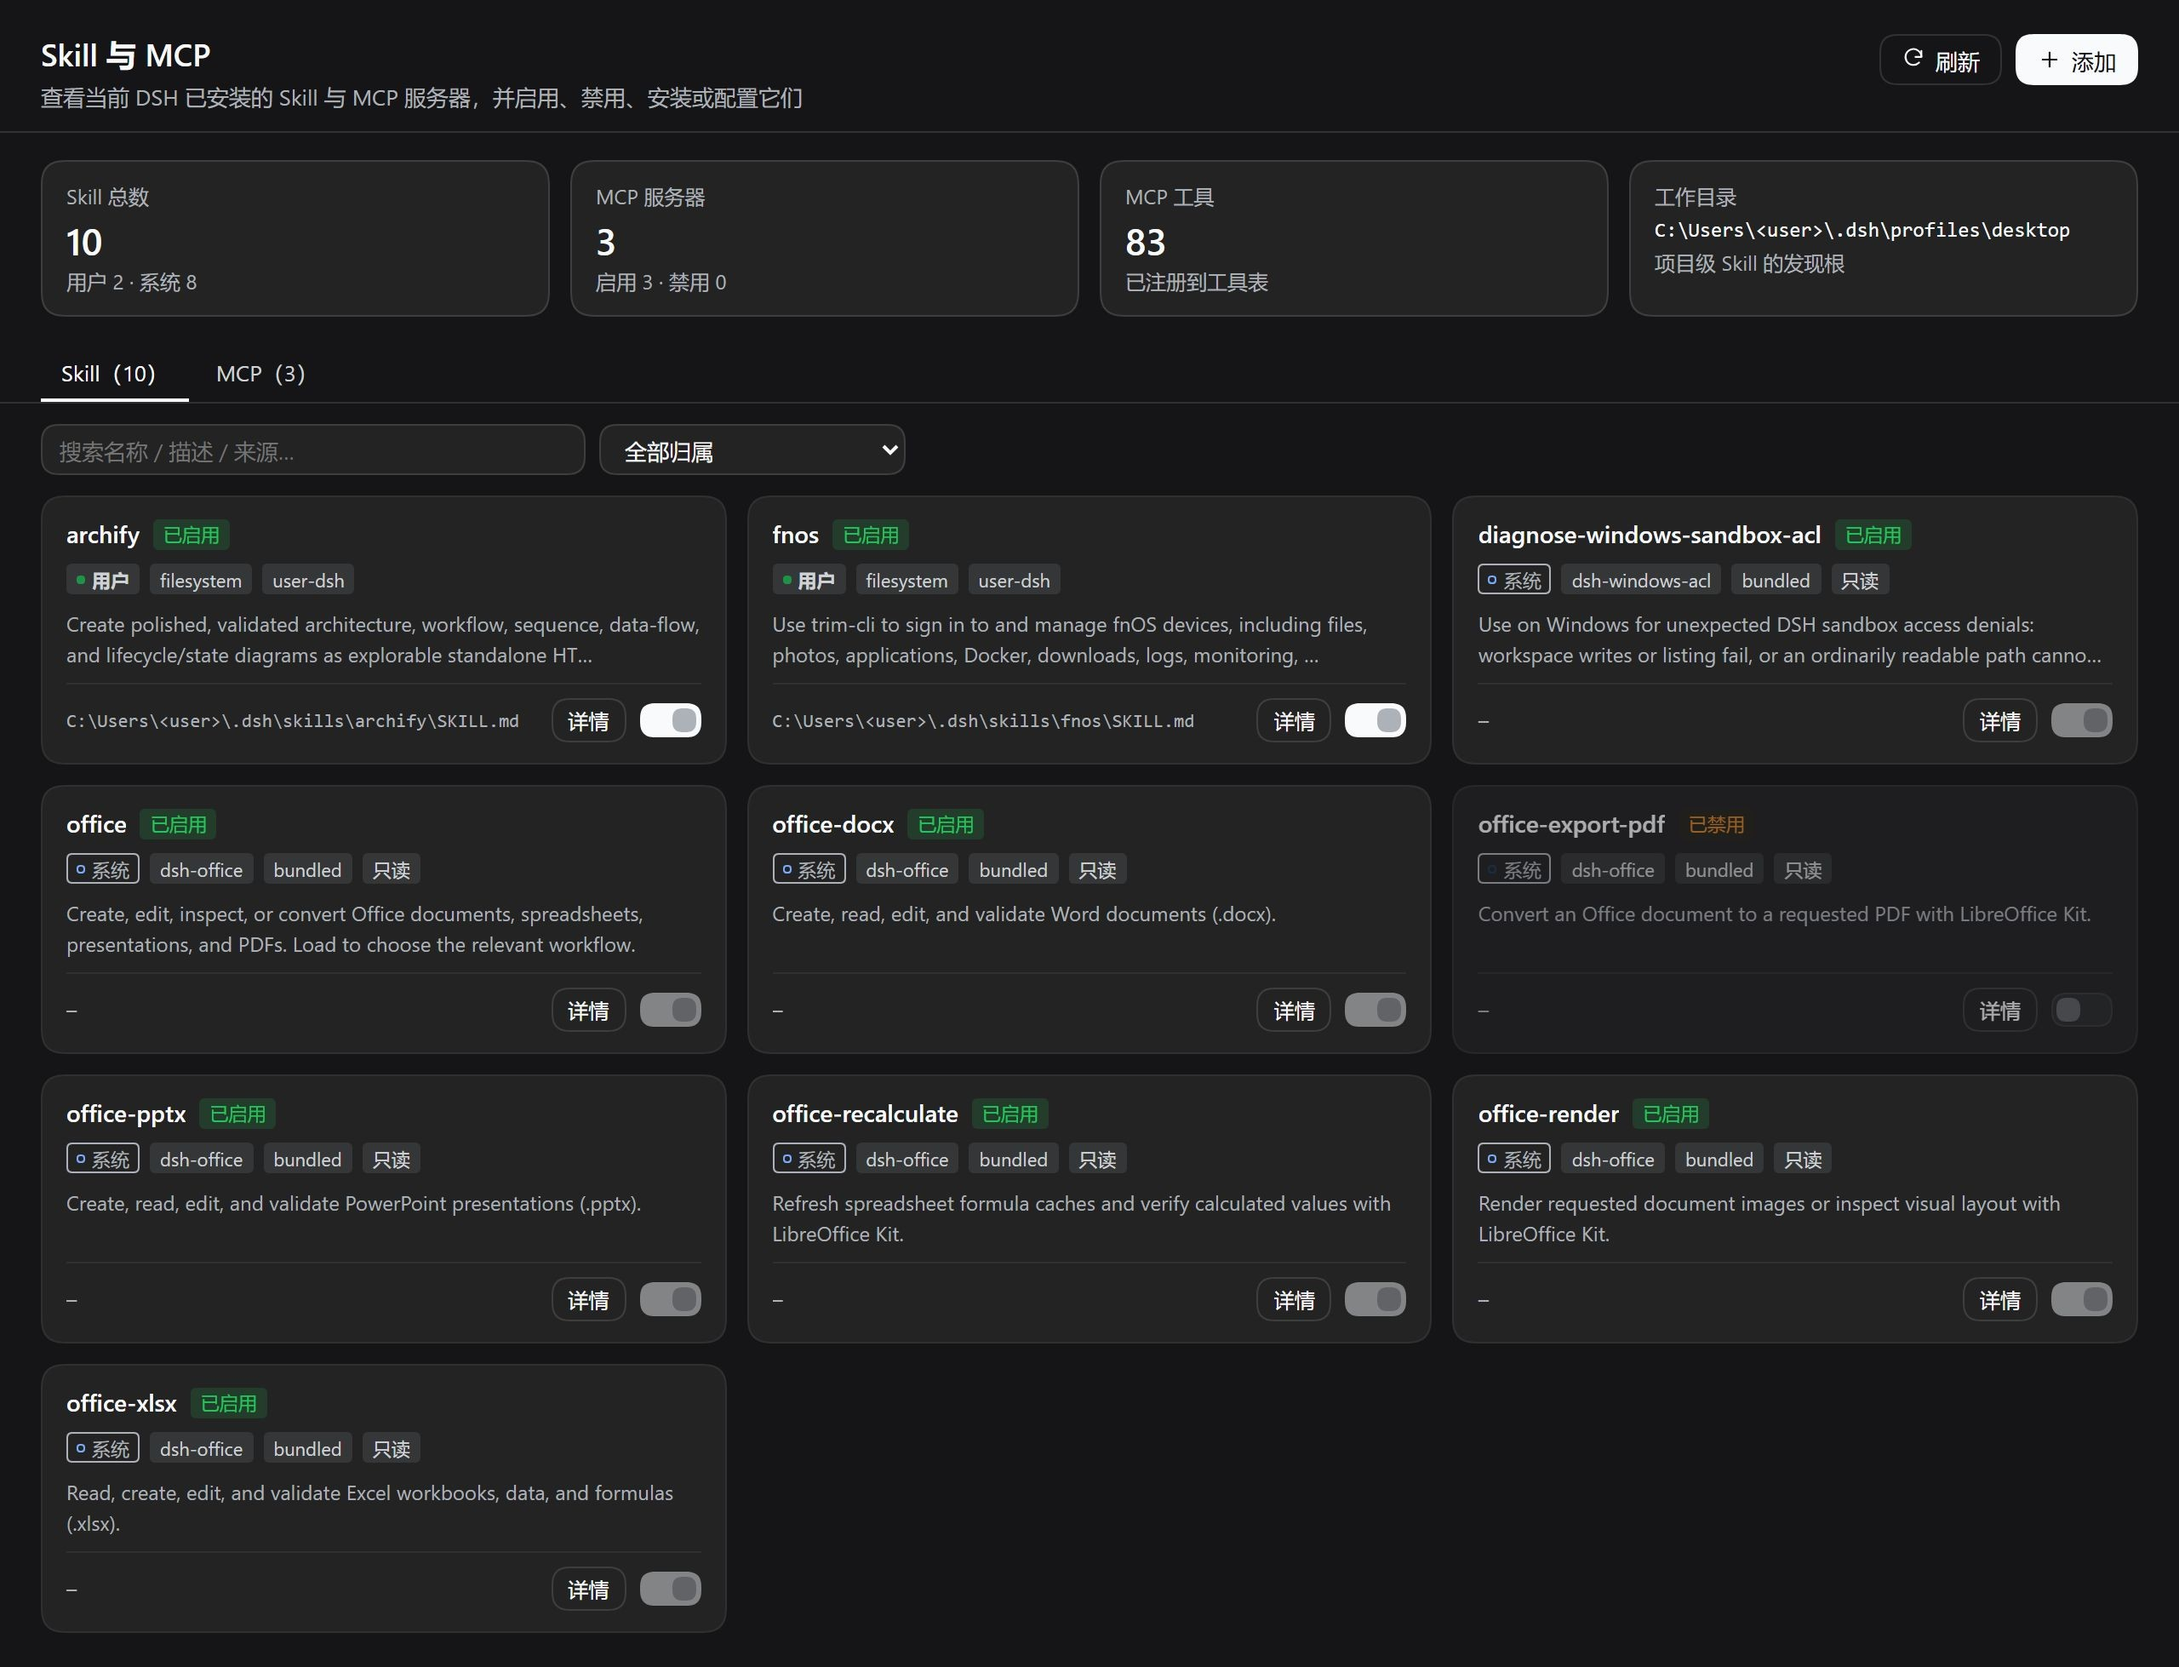
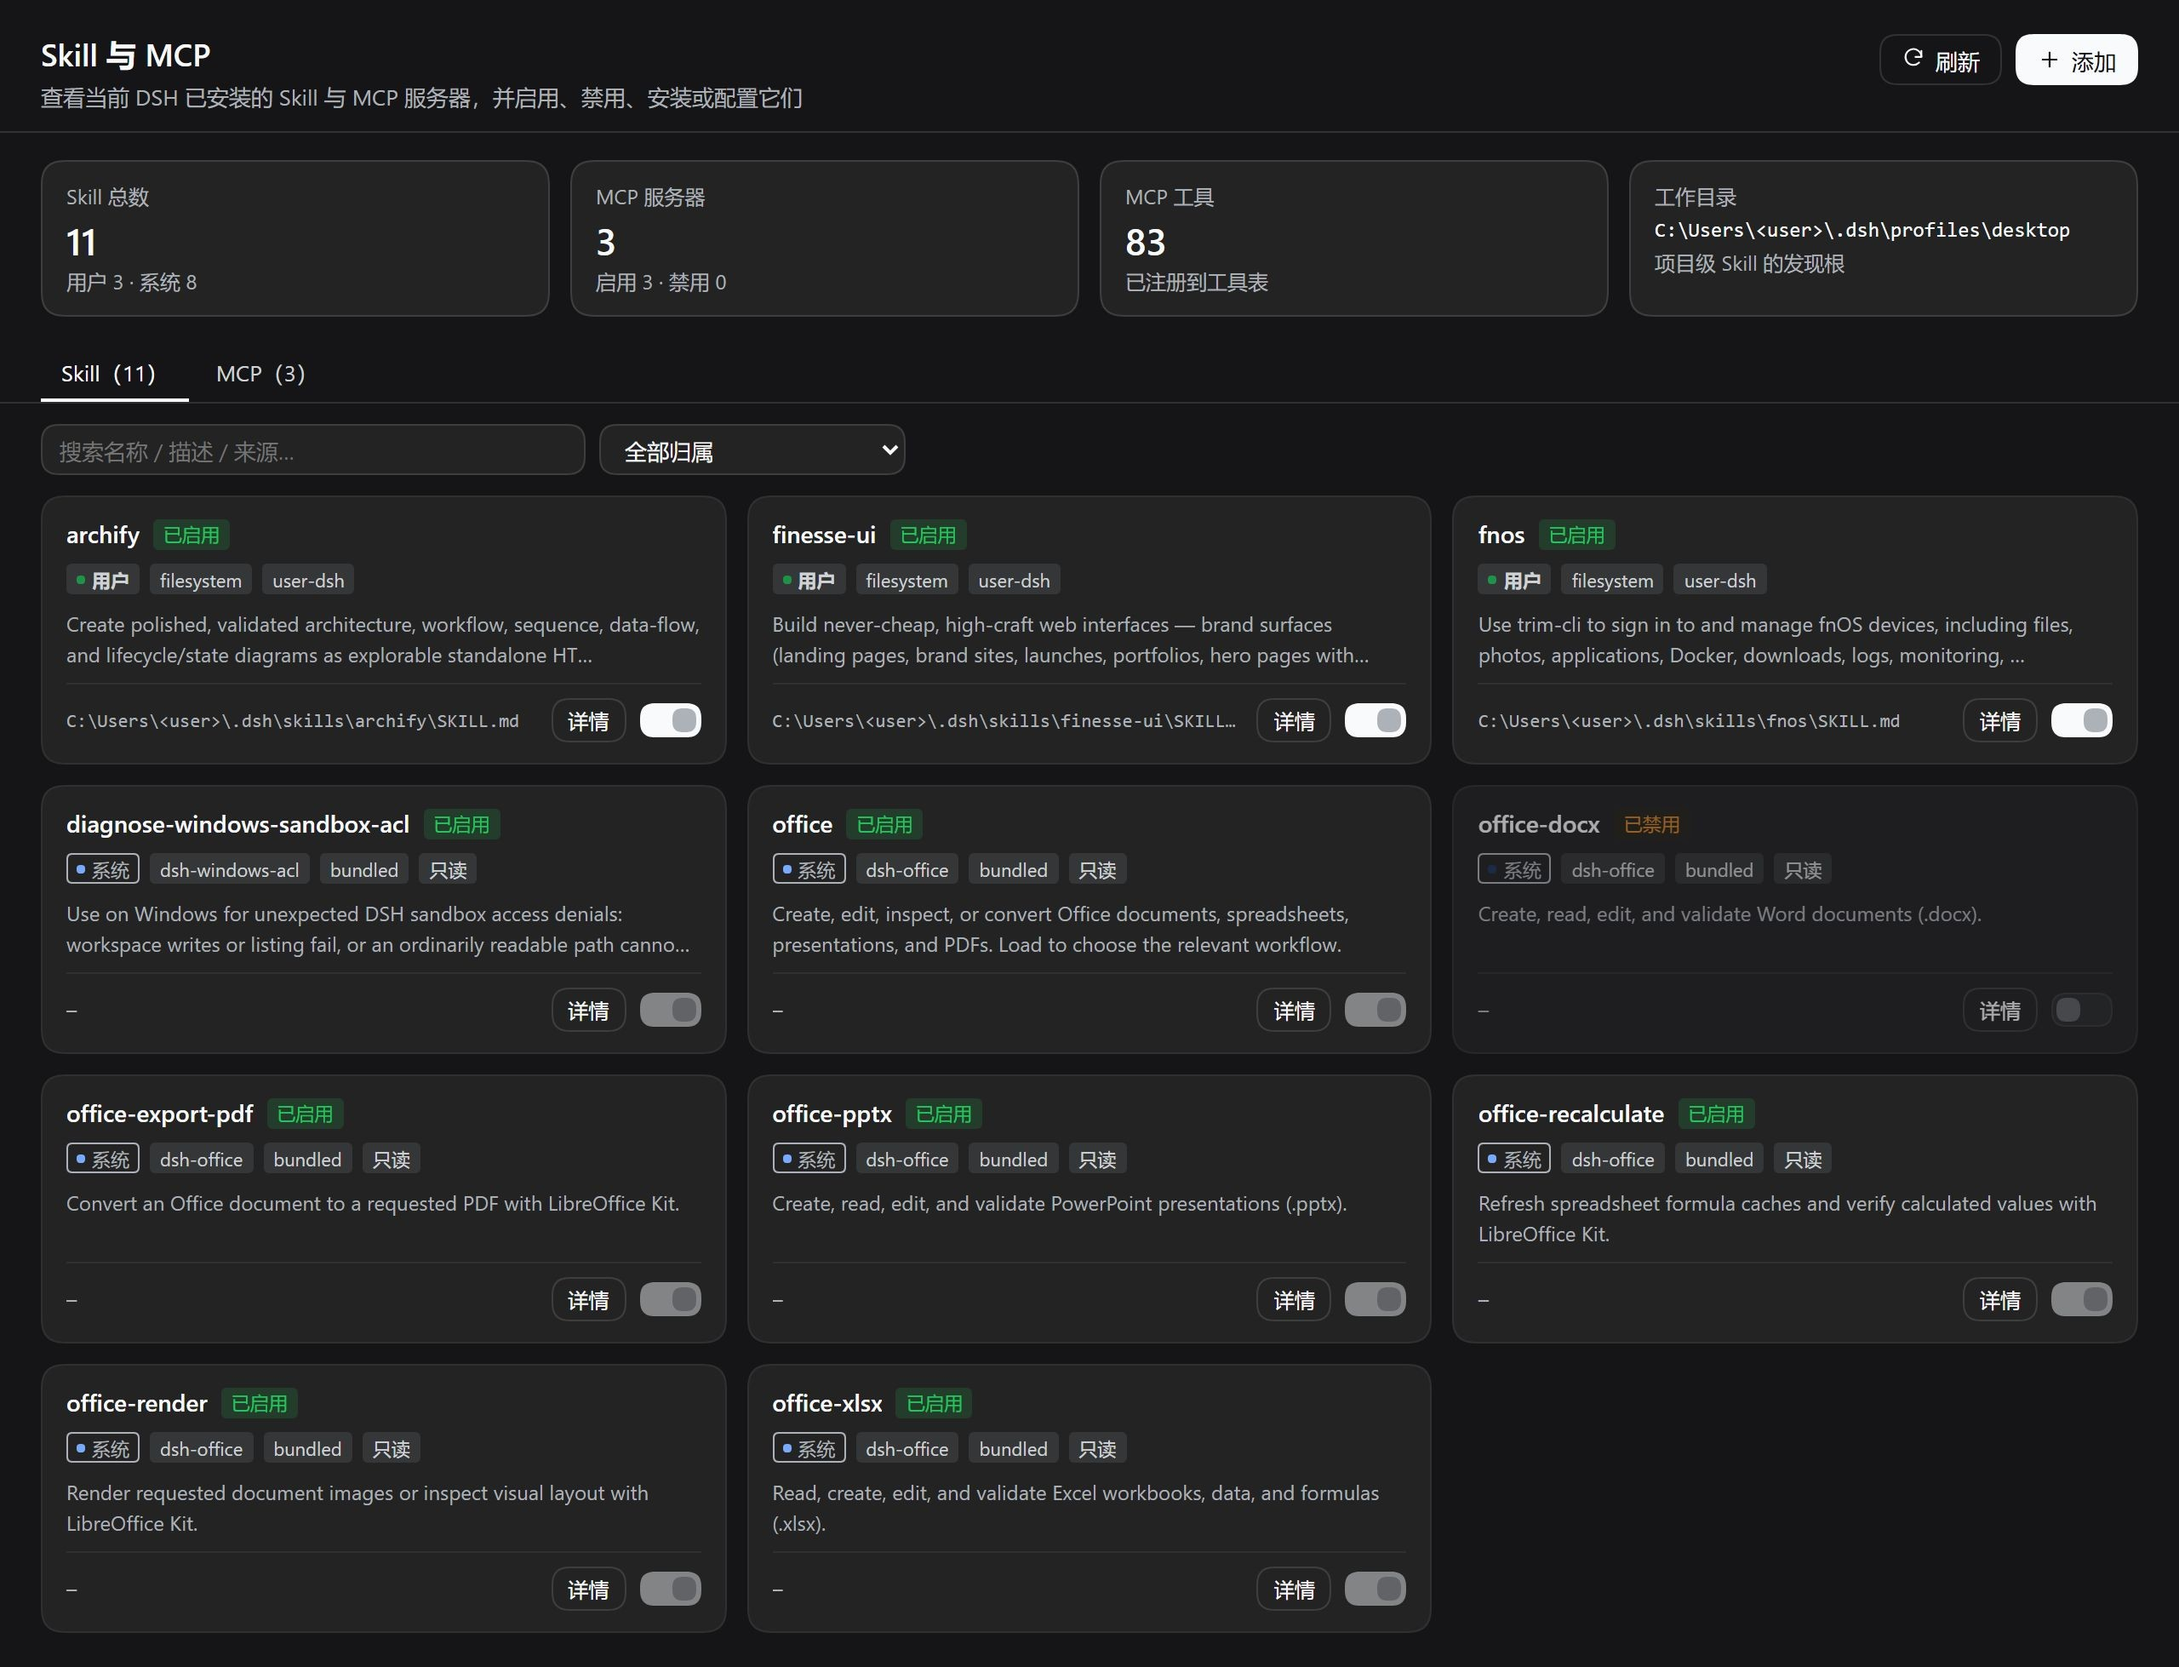
fix: 系统归属圆点改为实心蓝，与用户圆点同构

diff --git a/lib/client.js b/lib/client.js
@@ -69,25 +69,25 @@ window.__ModuleLoader__.load({
 			".sml-tag--ok{background:var(--dsw-alias-state-success-tertiary);color:var(--dsw-alias-state-success-primary);}",
 			".sml-tag--off{background:var(--dsw-alias-state-warn-tertiary);color:var(--dsw-alias-state-warn-label);}",
 			".sml-tag--err{background:var(--dsw-alias-state-error-primary);color:var(--dsw-alias-label-primary-foreground);}",
-												// 归属徽标底色保持中性，颜色只落在圆点上：用户=绿色实心点，系统=蓝色空心环。
-						//   绿色取 green-500 与近黑（neutral-900）的中和档，避开高饱和亮绿；蓝色用
-						//   DSH 品牌蓝（state-business-primary）。skill 禁用时圆点各自压暗（与近黑
-						//   混合到 35%），视觉上"变暗"以示停用。实心/空心的形状差保留，色盲或
-						//   灰度显示下仅凭形状也能区分归属。
-						".sml-tag--sys::before,.sml-tag--user::before{content:'';width:5px;height:5px;border-radius:50%;margin-right:4px;flex:none;}",
-						// 系统圆圈：蓝色空心环（内置技能）。先给静态兜底色再覆盖语义色。
-						".sml-tag--sys::before{background:transparent;box-shadow:inset 0 0 0 1px var(--dsw-static-blue-500);box-shadow:inset 0 0 0 1px var(--dsw-alias-state-business-primary);}",
-						// 用户圆圈：绿色实心（自装技能），中和档避免刺眼。
-						".sml-tag--user::before{background:var(--dsw-static-green-500);background:color-mix(in srgb,var(--dsw-static-green-500) 72%,var(--dsw-static-neutral-900));}",
-						// 系统徽标：透明底 + 发丝描边，退到背景里，不与状态标签抢视觉。
-						".sml-tag--sys{background:transparent;box-shadow:inset 0 0 0 1px var(--dsw-alias-label-tertiary);color:var(--dsw-alias-label-tertiary);}",
-						// 用户徽标：中性底，仅以圆点颜色与字重区分，排在归属组首位。
-						".sml-tag--user{background:var(--dsw-alias-bg-layer-3);color:var(--dsw-alias-label-secondary);font-weight:600;}",
-						// 禁用态：圆点各自压暗（35% 原色 + 65% 近黑），视觉变暗以示停用。
-						".sml-tag--user.sml-tag--dim::before{background:var(--dsw-static-green-900);background:color-mix(in srgb,var(--dsw-static-green-500) 35%,var(--dsw-static-neutral-900));}",
-						".sml-tag--sys.sml-tag--dim::before{box-shadow:inset 0 0 0 1px var(--dsw-static-blue-900);box-shadow:inset 0 0 0 1px color-mix(in srgb,var(--dsw-static-blue-500) 35%,var(--dsw-static-neutral-900));}",
-						// 用户徽标固定排在归属组首位：靠左即最先扫到，与"用户优先"的排序语义一致。
-						".sml-tags .sml-tag--user{order:-1;}",
+																								// 归属徽标底色保持中性，颜色只落在圆点上：用户=绿色实心点，系统=蓝色实心点。
+												//   绿色取 green-500 与近黑（neutral-900）的中和档，避开高饱和亮绿；蓝色用
+												//   DSH 品牌蓝（state-business-primary）。skill 禁用时圆点各自压暗（与近黑
+												//   混合到 35%），视觉上"变暗"以示停用。圆点是归属的唯一彩色信号，文字
+												//   标签保持中性，避免整块色底喧宾夺主。
+												".sml-tag--sys::before,.sml-tag--user::before{content:'';width:5px;height:5px;border-radius:50%;margin-right:4px;flex:none;}",
+												// 系统圆圈：蓝色实心（内置技能）。先给静态兜底色再覆盖语义色。
+												".sml-tag--sys::before{background:var(--dsw-static-blue-500);background:var(--dsw-alias-state-business-primary);}",
+												// 用户圆圈：绿色实心（自装技能），中和档避免刺眼。
+												".sml-tag--user::before{background:var(--dsw-static-green-500);background:color-mix(in srgb,var(--dsw-static-green-500) 72%,var(--dsw-static-neutral-900));}",
+												// 系统徽标：透明底 + 发丝描边，退到背景里，不与状态标签抢视觉。
+												".sml-tag--sys{background:transparent;box-shadow:inset 0 0 0 1px var(--dsw-alias-label-tertiary);color:var(--dsw-alias-label-tertiary);}",
+												// 用户徽标：中性底，仅以圆点颜色与字重区分，排在归属组首位。
+												".sml-tag--user{background:var(--dsw-alias-bg-layer-3);color:var(--dsw-alias-label-secondary);font-weight:600;}",
+												// 禁用态：圆点各自压暗（35% 原色 + 65% 近黑），视觉变暗以示停用。
+												".sml-tag--user.sml-tag--dim::before{background:var(--dsw-static-green-900);background:color-mix(in srgb,var(--dsw-static-green-500) 35%,var(--dsw-static-neutral-900));}",
+												".sml-tag--sys.sml-tag--dim::before{background:var(--dsw-static-blue-900);background:color-mix(in srgb,var(--dsw-static-blue-500) 35%,var(--dsw-static-neutral-900));}",
+												// 用户徽标固定排在归属组首位：靠左即最先扫到，与"用户优先"的排序语义一致。
+												".sml-tags .sml-tag--user{order:-1;}",
 			// 三级：描述
 			".sml-itemDesc{font-size:12px;color:var(--dsw-alias-label-tertiary);line-height:1.5;display:-webkit-box;-webkit-line-clamp:2;-webkit-box-orient:vertical;overflow:hidden;}",
 			// 四级：路径 + 操作
